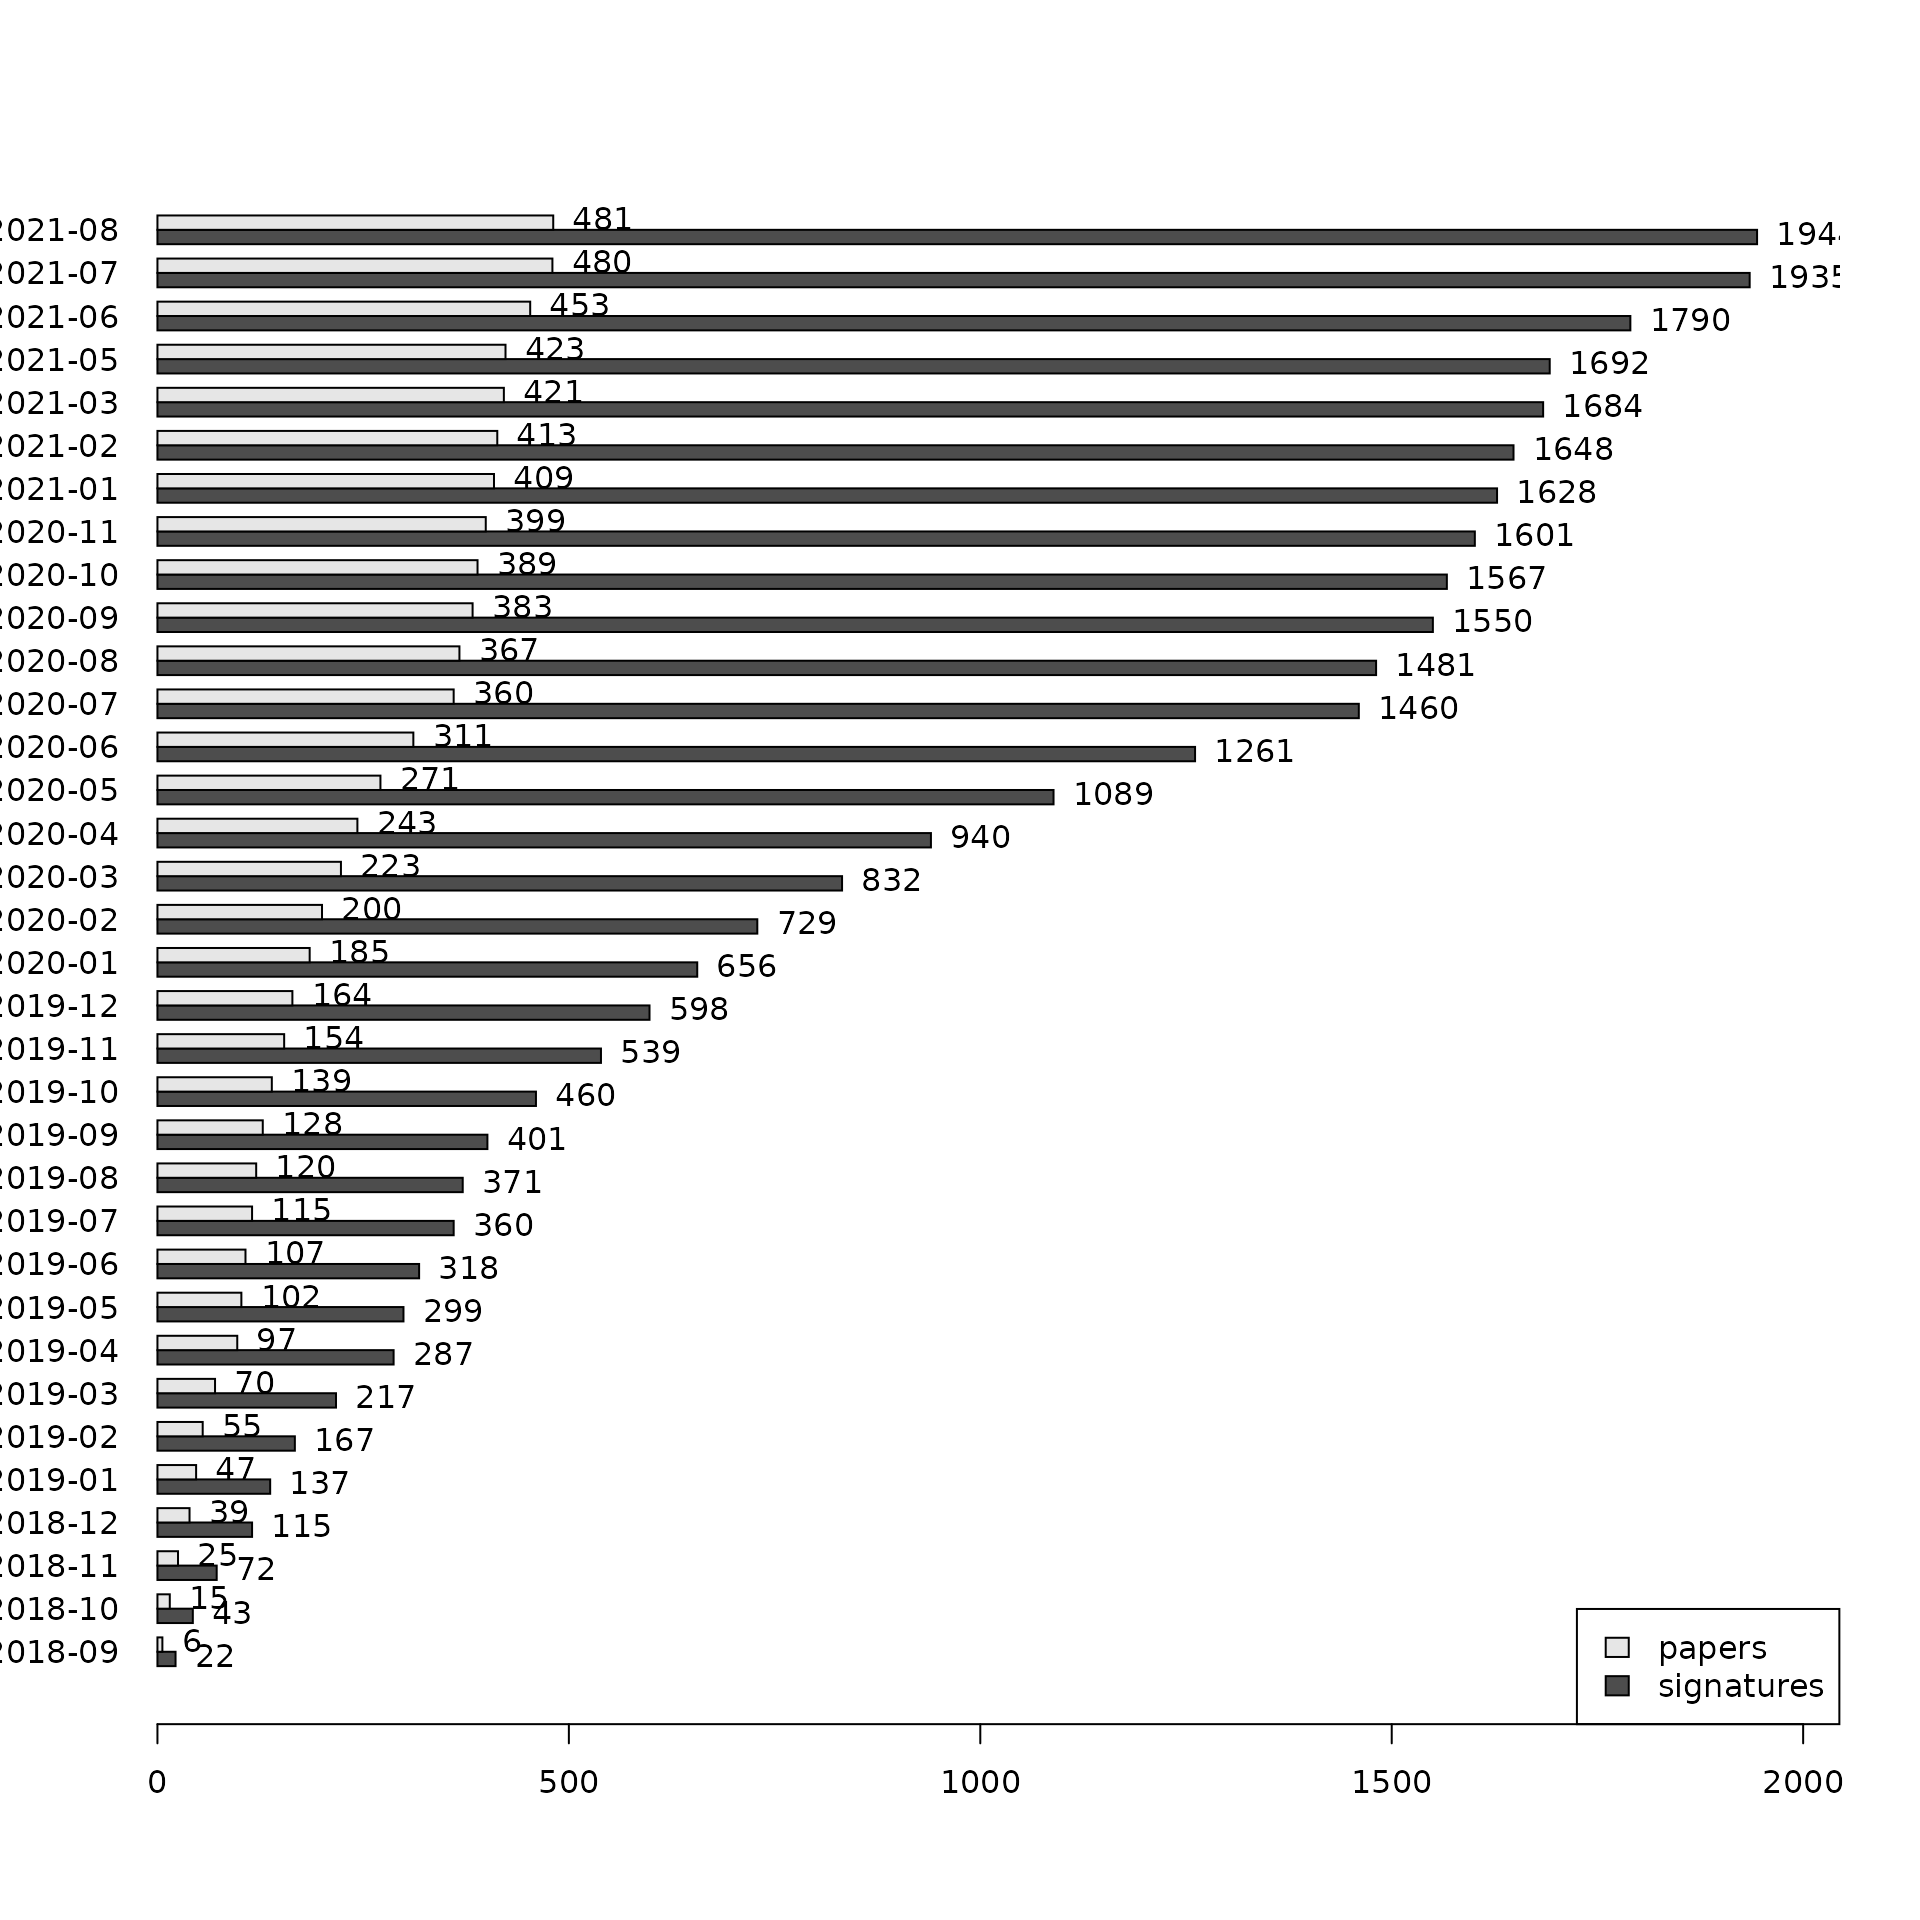
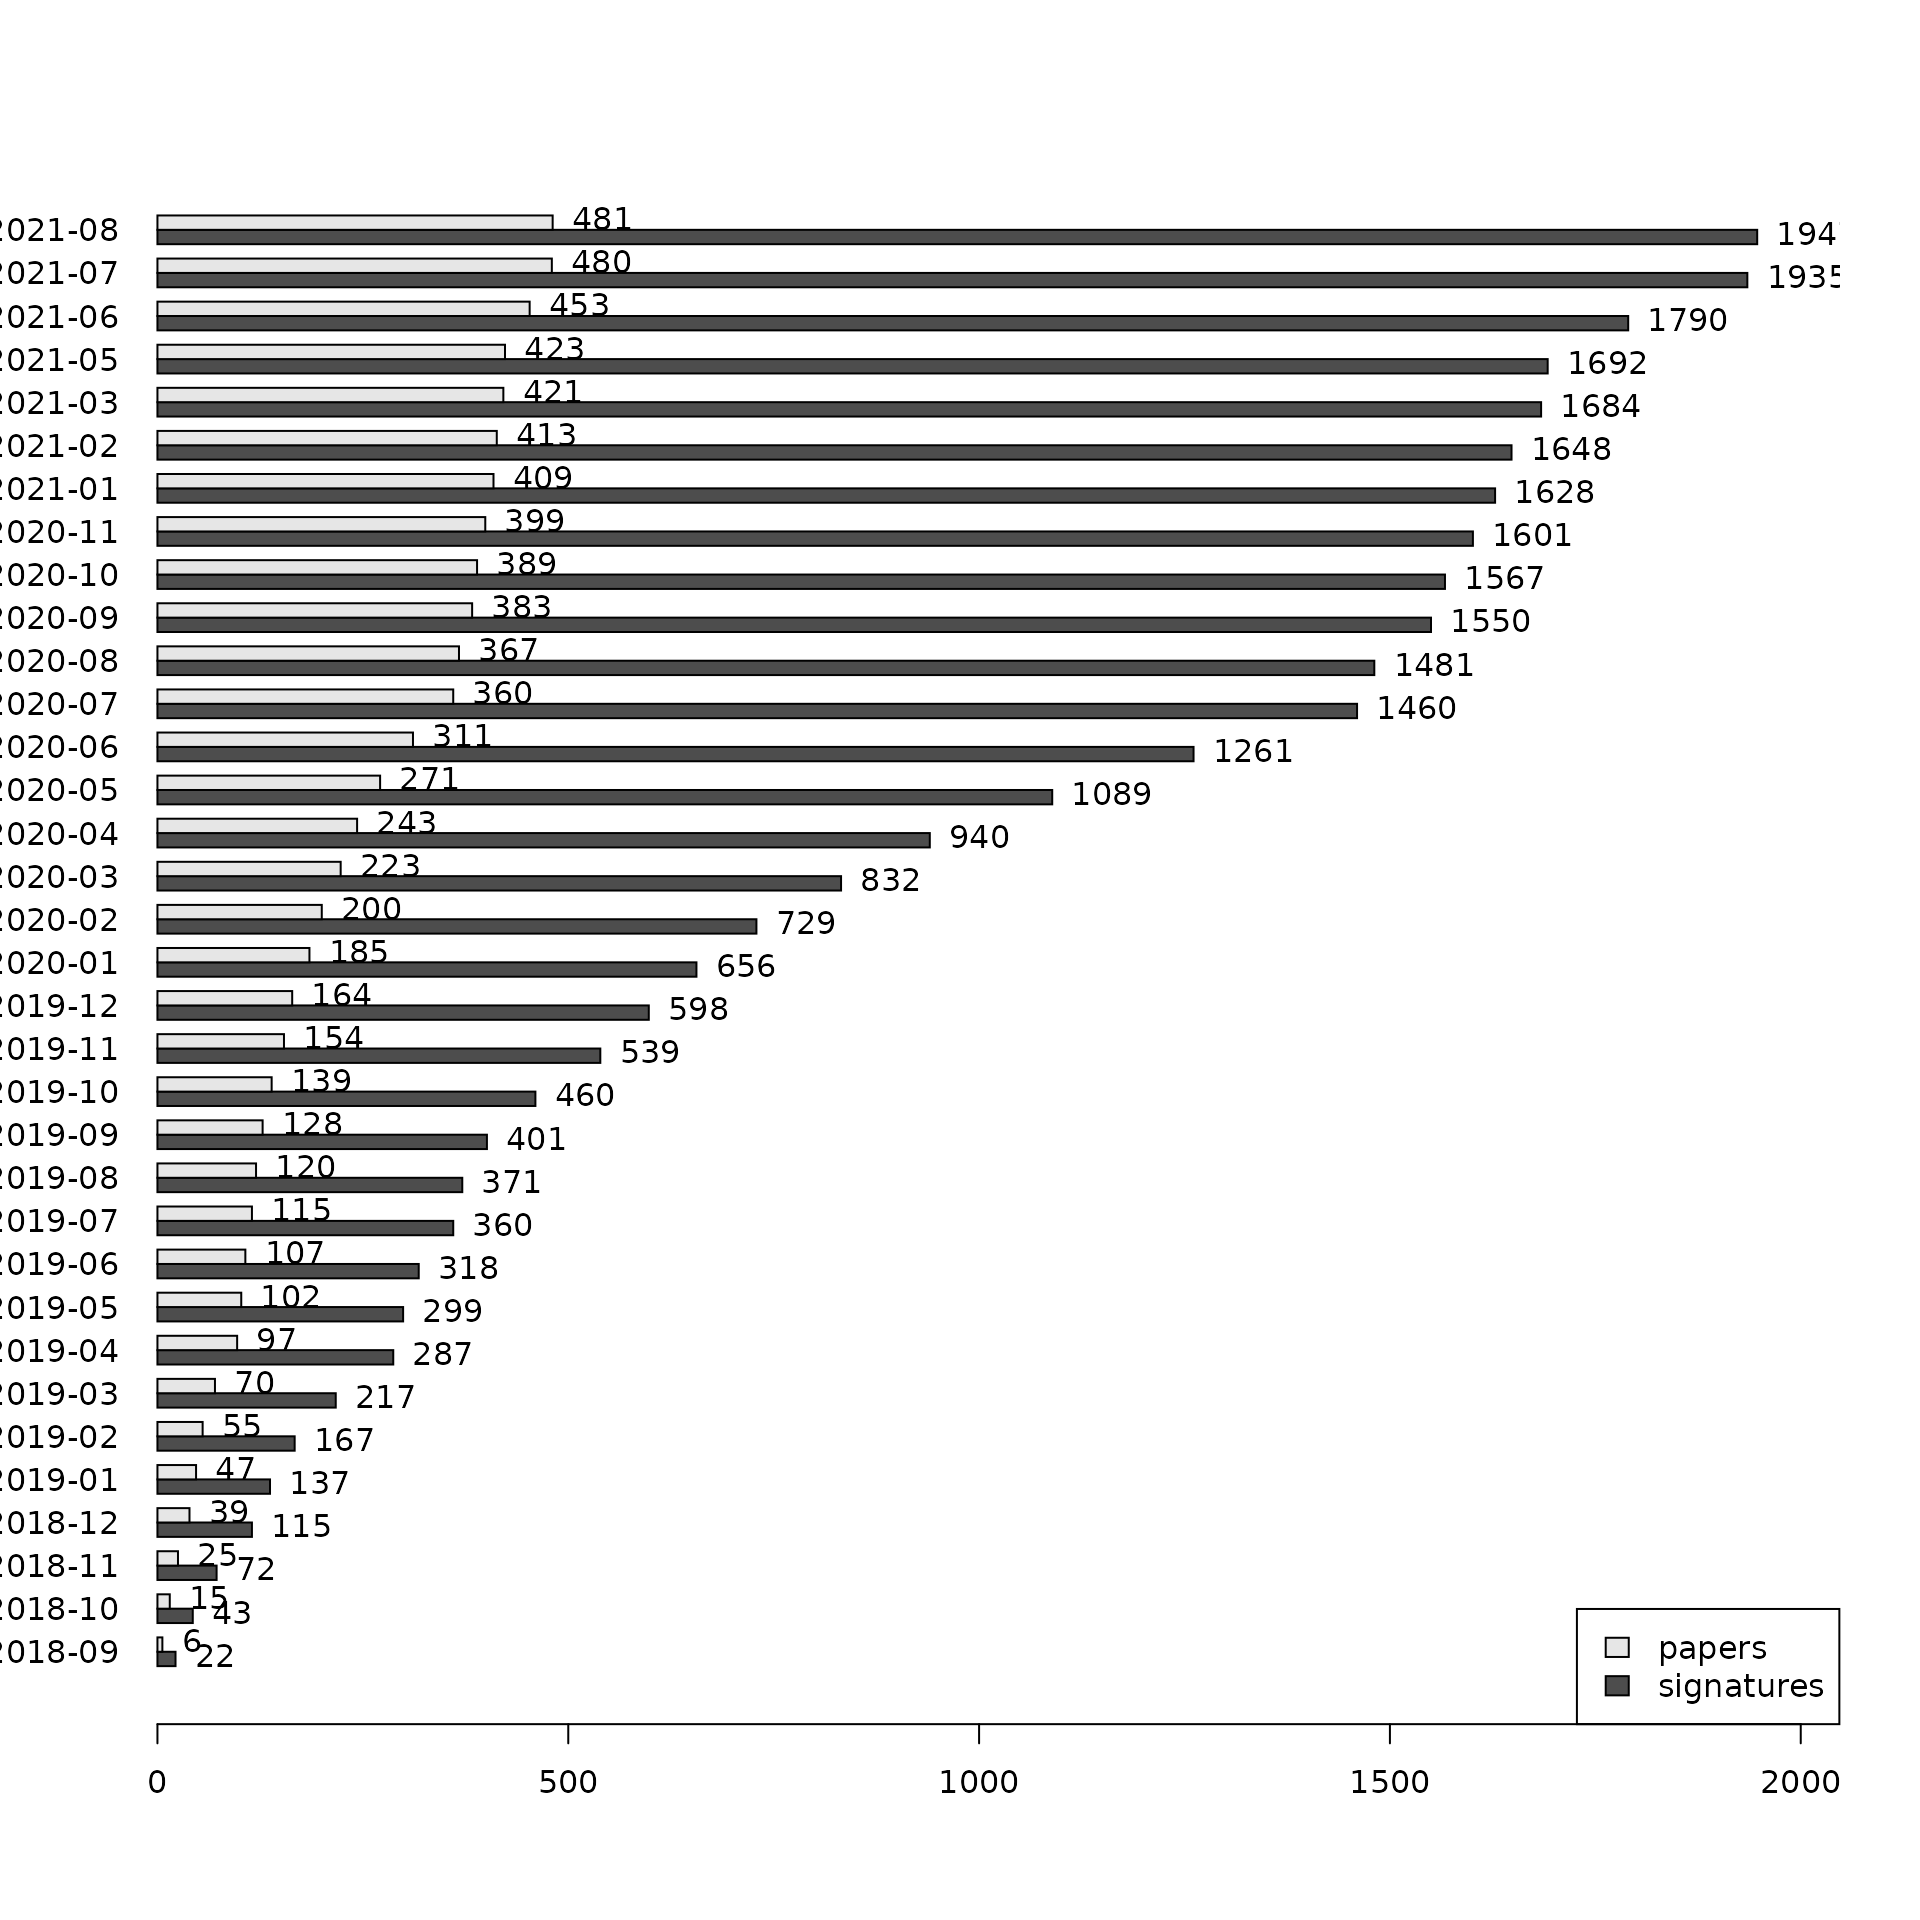
Deploying to gh-pages from  @ 9c0e06229ef63542f44c7cb56ad935cc12b6708c 🚀

diff --git a/articles/BugSigDBStats.html b/articles/BugSigDBStats.html
@@ -85,7 +85,7 @@
 <p>Get bulk export from bugsigdb.org:</p>
 <div class="sourceCode" id="cb2"><pre class="downlit">
 <span class="va">full.dat</span> <span class="op">&lt;-</span> <span class="fu">bugsigdbr</span><span class="fu">::</span><span class="fu"><a href="https://rdrr.io/pkg/bugsigdbr/man/importBugSigDB.html">importBugSigDB</a></span><span class="op">(</span><span class="op">)</span></pre></div>
-<pre><code>## using temporary cache /tmp/Rtmp2wv298/BiocFileCache</code></pre>
+<pre><code>## using temporary cache /tmp/RtmpZbO1NI/BiocFileCache</code></pre>
 <pre><code>## 
 ## ── Column specification ────────────────────────────────────────────────────────
 ## cols(
@@ -129,7 +129,7 @@
 ## )</code></pre>
 <div class="sourceCode" id="cb7"><pre class="downlit">
 <span class="fu"><a href="https://rdrr.io/r/base/dim.html">dim</a></span><span class="op">(</span><span class="va">full.dat</span><span class="op">)</span></pre></div>
-<pre><code>## [1] 2010   45</code></pre>
+<pre><code>## [1] 2013   45</code></pre>
 <div class="sourceCode" id="cb9"><pre class="downlit">
 <span class="fu"><a href="https://rdrr.io/r/base/colnames.html">colnames</a></span><span class="op">(</span><span class="va">full.dat</span><span class="op">)</span></pre></div>
 <pre><code>##  [1] "Study"                      "Study design"              
@@ -166,7 +166,7 @@
 <pre><code>## [1] 494</code></pre>
 <div class="sourceCode" id="cb13"><pre class="downlit">
 <span class="fu"><a href="https://rdrr.io/r/base/nrow.html">nrow</a></span><span class="op">(</span><span class="va">full.dat</span><span class="op">)</span></pre></div>
-<pre><code>## [1] 2010</code></pre>
+<pre><code>## [1] 2013</code></pre>
 <p>Publication date of the curated papers:</p>
 <div class="sourceCode" id="cb15"><pre class="downlit">
 <span class="va">pmids</span> <span class="op">&lt;-</span> <span class="va">pmids</span><span class="op">[</span><span class="op">!</span><span class="fu"><a href="https://rdrr.io/r/base/NA.html">is.na</a></span><span class="op">(</span><span class="va">pmids</span><span class="op">)</span><span class="op">]</span>
@@ -196,7 +196,7 @@
 <span class="co"># more realistic estimation of number of signatures curated</span>
 <span class="va">dat</span> <span class="op">&lt;-</span> <span class="fu"><a href="../reference/stripEmptySignatures.html">stripEmptySignatures</a></span><span class="op">(</span><span class="va">full.dat</span><span class="op">)</span>
 <span class="fu"><a href="https://rdrr.io/r/base/nrow.html">nrow</a></span><span class="op">(</span><span class="va">dat</span><span class="op">)</span></pre></div>
-<pre><code>## [1] 1944</code></pre>
+<pre><code>## [1] 1947</code></pre>
 <p>Papers containing only empty UP and DOWN signatures (under curation?):</p>
 <div class="sourceCode" id="cb20"><pre class="downlit">
 <span class="fu"><a href="https://rdrr.io/r/base/sets.html">setdiff</a></span><span class="op">(</span><span class="va">pmids</span>, <span class="fu"><a href="https://rdrr.io/r/base/unique.html">unique</a></span><span class="op">(</span><span class="va">dat</span><span class="op">[</span>,<span class="st">"PMID"</span><span class="op">]</span><span class="op">)</span><span class="op">)</span></pre></div>
